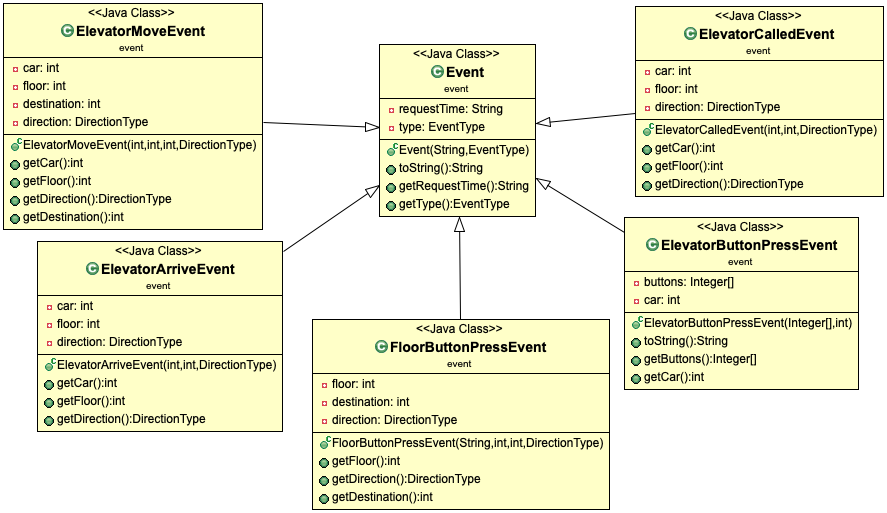
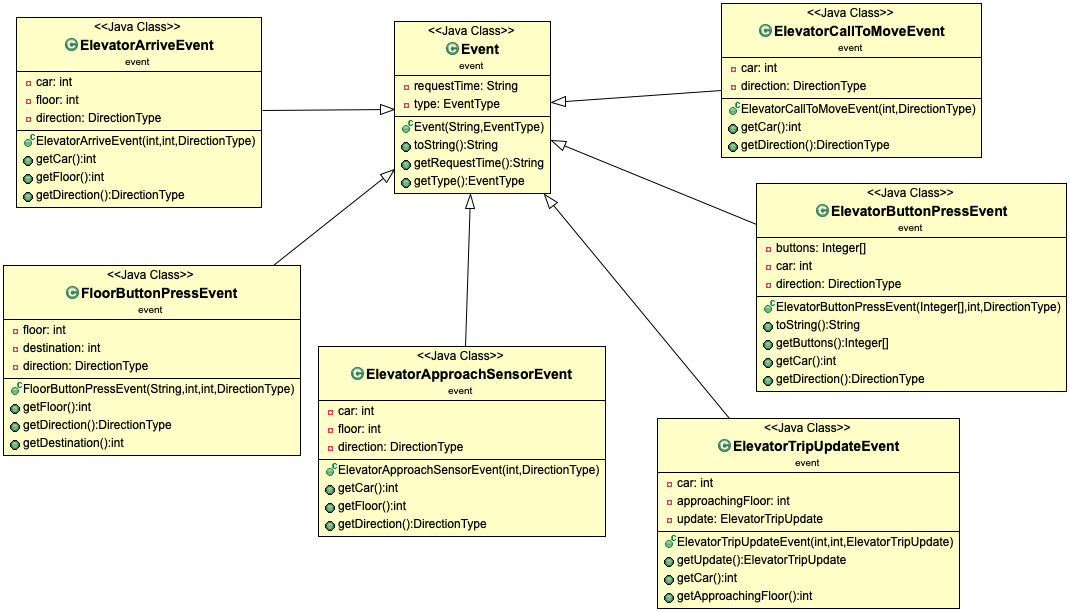
send over elevator buttons from the scheduler when elevator called to move

diff --git a/src/event/ElevatorCallToMoveEvent.java b/src/event/ElevatorCallToMoveEvent.java
@@ -7,9 +7,10 @@ package event;
 public class ElevatorCallToMoveEvent extends Event {
 	private int car;
 	private DirectionType direction;
+	private Integer[] destinationToLight;
 	
 	/**
-	 * Create elevator arrive event
+	 * Create elevator call to move event
 	 * @param c - int car number
 	 * @param dir - DirectionType where it is going (UP/DOWN)
 	 */
@@ -17,6 +18,18 @@ public class ElevatorCallToMoveEvent extends Event {
 		super("", EventType.ELEVATOR_CALLED);
 		car = c;
 		direction = dir;
+		destinationToLight = new Integer[0];
+	}
+	
+	/**
+	 * Create elevator call to move event
+	 * @param c - car number
+	 * @param dir - directiontype
+	 * @param i - destinations
+	 */
+	public ElevatorCallToMoveEvent(int c, DirectionType dir, Integer[] destinations) {
+		this(c, dir);
+		destinationToLight = destinations;
 	}
 	
 	public int getCar() {
@@ -25,5 +38,9 @@ public class ElevatorCallToMoveEvent extends Event {
 
 	public DirectionType getDirection() {
 		return direction;
+	}
+
+	public Integer[] getDestinationToLight() {
+		return destinationToLight;
 	}
 }

diff --git a/src/scheduler/Scheduler.java b/src/scheduler/Scheduler.java
@@ -161,9 +161,7 @@ public class Scheduler implements Runnable {
 			elevator.setDirection(elevatorBEv.getDirection());
 			
 			// get the elevator moving
-			
-			// TODO: send over elevator buttons as well
-			elevatorRequest = new ElevatorCallToMoveEvent(elevatorBEv.getCar(), elevator.getWorkingDirection());
+			elevatorRequest = new ElevatorCallToMoveEvent(elevatorBEv.getCar(), elevator.getWorkingDirection(), elevatorBEv.getButtons());
 			System.out.println("SCHEDULER: Sending event " + elevatorRequest + " to elevator");
 			elevatorQueue.addLast(elevatorRequest);
 		} else {
